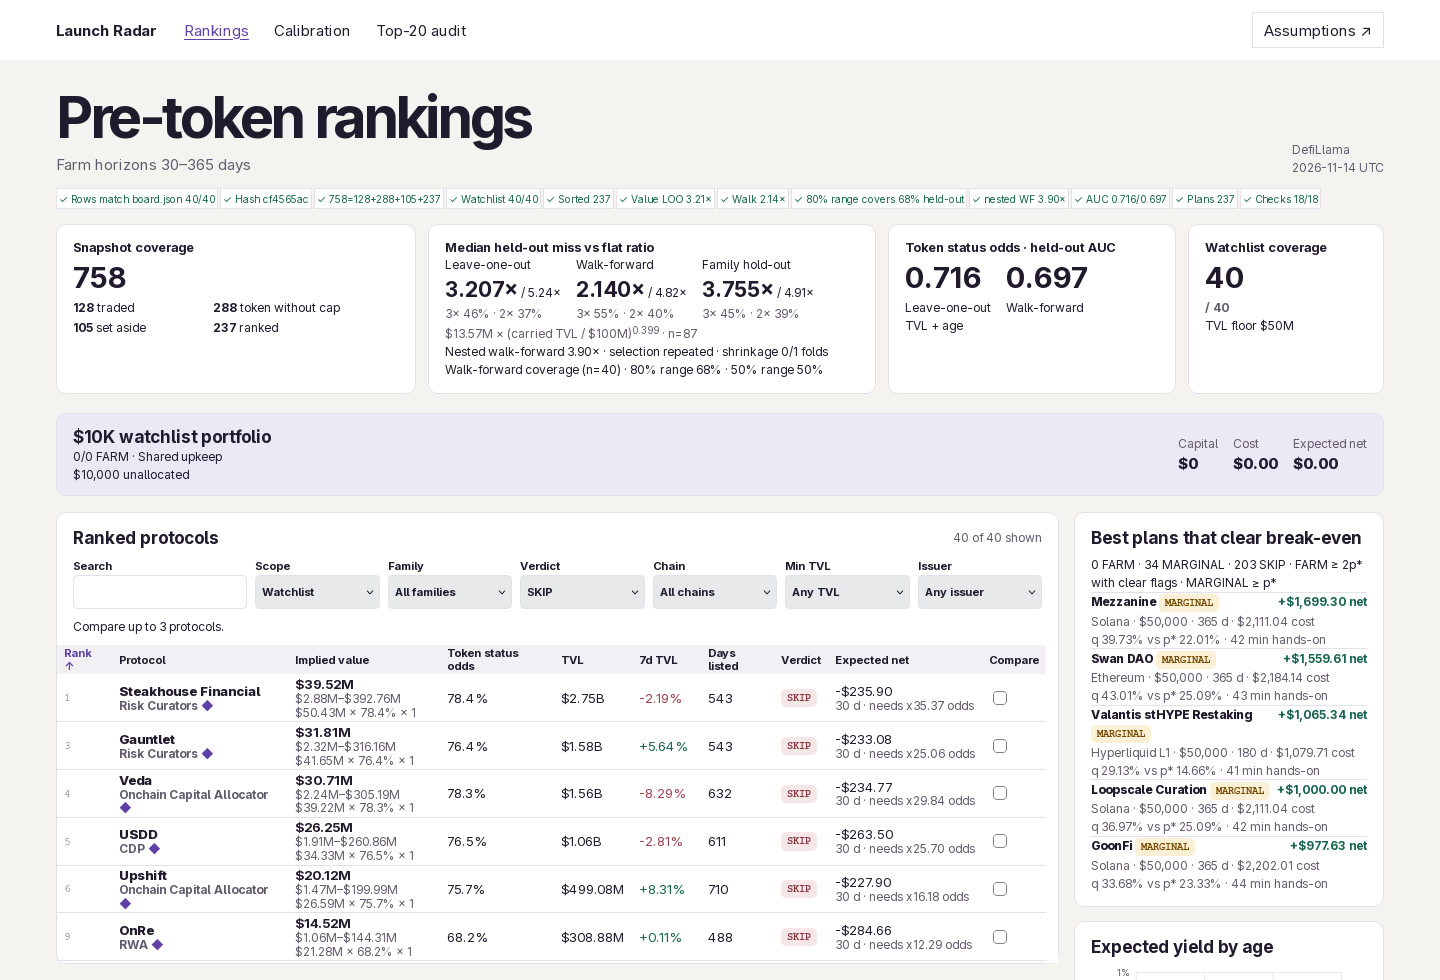
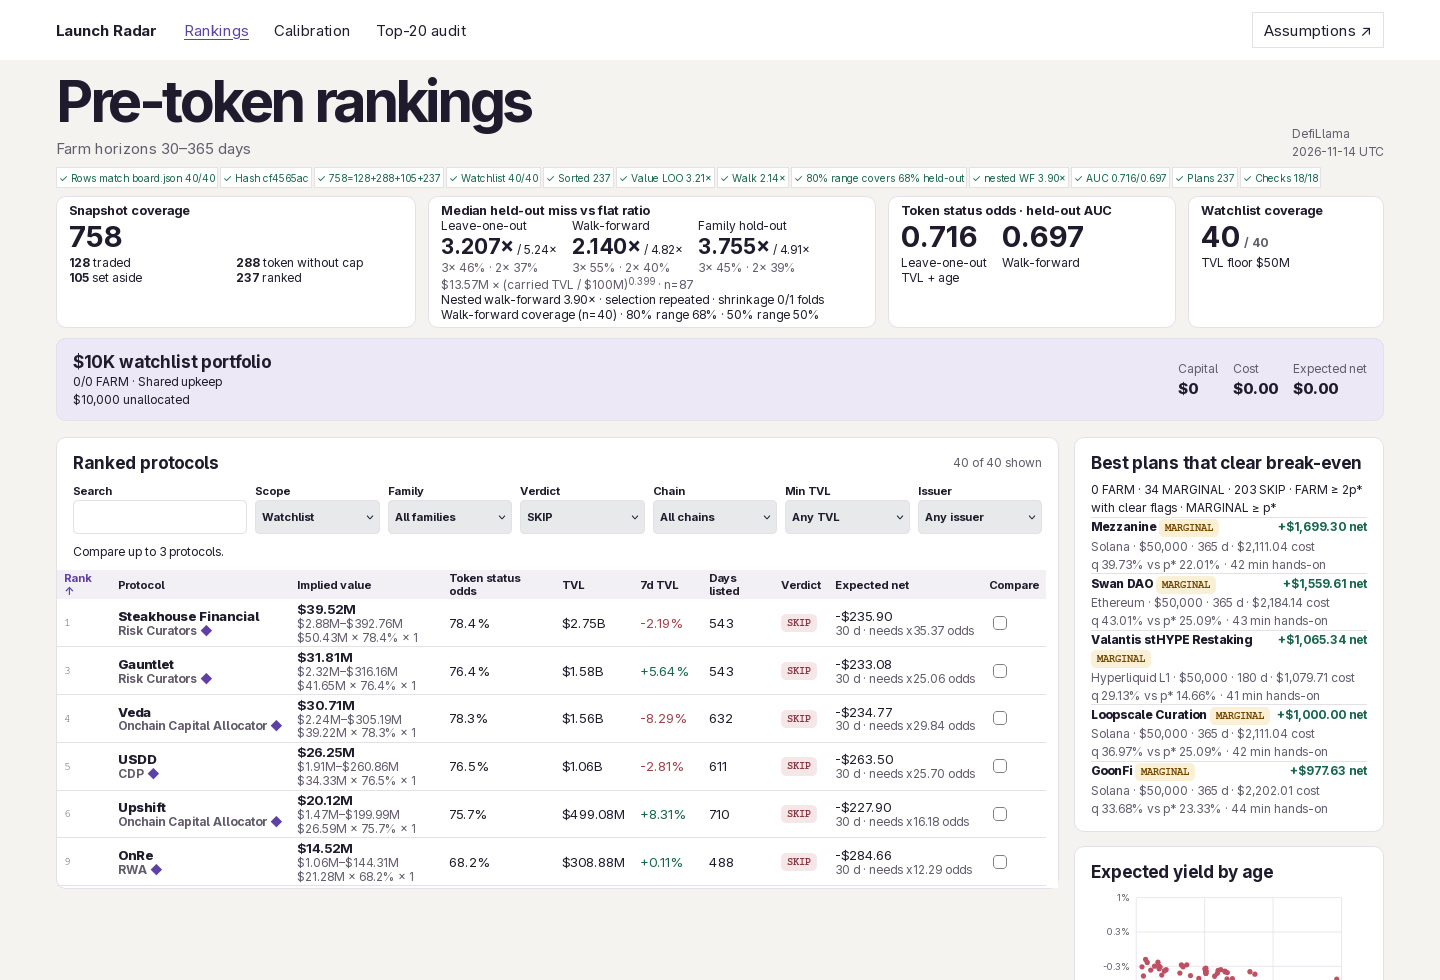
Denser board without shrinking type

diff --git a/dashboard/style.css b/dashboard/style.css
@@ -17,7 +17,7 @@ button,select,summary{cursor:pointer}
 h1{font-size:clamp(2.4rem,4vw,3.9rem);line-height:1;letter-spacing:-.06em}
 h2{font-size:1.14rem;line-height:1.25}
 .frame{width:min(1328px,95%);margin:auto}
-.site-header,.dialog-bar,.btn,.chip,.panel,.portfolio{background:#fff}
+.site-header,.dialog-bar,.btn,.chip,.panel{background:#fff}
 .mast,.bar,.dialog-bar,.portfolio,.equation{display:flex;align-items:center}
 .intro,.readings,.legend,.positions,.outcomes,.integrity,dl{display:flex}
 .mast{min-height:60px;gap:28px}
@@ -31,18 +31,19 @@ nav [aria-current=page]{text-decoration:underline}
 small,dt,.rank,.intro p,.curve,footer{color:var(--dim)}
 .intro,.bar,.dialog-bar,.metrics{justify-content:space-between}
 .integrity,.readings,.portfolio,.positions,.attribution dl{flex-wrap:wrap}
-.intro{align-items:end;margin:28px 0 24px}
+.intro{align-items:end;margin:12px 0 24px}
 .intro p{margin-top:8px}
-.integrity{gap:2px;margin:-12px 0 1em}
+.integrity{gap:2px;margin:-17px 0 8px}
 .chip{padding:2px;white-space:nowrap;font-size:.68rem}
 #checks-info,.back{margin-top:16px}
 .kpis,.groups,.board,.detail,.research,.rail,.detail>div,.filters,.steps li,.quotes{display:grid}
-.kpis{grid-template-columns:1.25fr 1.55fr 1fr .68fr;gap:12px;margin-bottom:19px}
+.kpis{grid-template-columns:1.25fr 1.55fr 1fr .68fr;gap:12px;margin:0 0 10px}
 .panel,.portfolio{border-radius:10px;min-width:0}
+.kpi{padding:5px 12px;line-height:1.25}
 .kpi strong{font-size:1.94rem}
-.groups{grid-template-columns:auto auto;gap:2px 8px}
+.groups{grid-template:auto/1fr 1fr}
 .readings,.band,.totals,.board,.detail,.research{gap:1rem}
-small,.readings span,svg,.back{display:block}
+:not(strong)>small,.readings span,svg,.back{display:block}
 .misses strong{font-size:1.4rem}
 small,dt,.curve,.attribution,.rail,.portfolio p,.hint,.back,.kpi{font-size:.8rem}
 .valuation,.portfolio,.metrics,.steps small{background:var(--bg)}
@@ -54,15 +55,17 @@ small,dt,.curve,.attribution,.rail,.portfolio p,.hint,.back,.kpi{font-size:.8rem
 :is(.filters,.quotes) label{font-size:.75rem;font-weight:700}
 :is(.filters,.quotes) :is(input,select){width:100%;height:34px;padding:4px 6px;border:var(--line);border-radius:5px}
 .scroll{overflow:auto}
-#results .scroll{max-height:414px}
-.portfolio+div #results .scroll{max-height:318px}
+#results .scroll{
+	max-height:511px;
+	.portfolio+div &{max-height:318px}
+}
 #results thead{position:sticky;top:0;z-index:1}
 table{width:100%;border-collapse:collapse}
 th{text-align:left}
 thead{background:#f3eff6;font-size:.75rem}
 .ranks{min-width:880px;font-size:.88rem;line-height:1.15}
 .ranks :is(td,th){padding:2px 7px}
-.ranks td{white-space:nowrap}
+.ranks :is(td,th small){white-space:nowrap}
 .hint,.compare{margin:0 16px 9px}
 tbody tr{border-bottom:var(--line)}
 .protocol,dd,.amount{font-weight:750}
@@ -72,7 +75,7 @@ tbody tr{border-bottom:var(--line)}
 .farm{background:#e1f3eb;color:#145a46}
 .marginal{background:#fbefd7;color:#754800}
 .skip{background:#f6e6e8;color:#893842}
-.inset,.valuation,.empty,.kpi{padding:14px 16px}
+.inset,.valuation,.empty{padding:14px 16px}
 svg{width:100%;height:146px}
 svg text{fill:var(--dim);font-size:11px}
 svg path{stroke:#e8e0ed}

diff --git a/dashboard/app.js b/dashboard/app.js
@@ -32,7 +32,7 @@ const grades=keys(verdicts),
 	oddsLabel="Token status odds",
 	cols={
 	rank:["Rank","rank","asc"],name:["Protocol","name","asc"],
-	value:["Implied value","score"],odds:[oddsLabel,"tokenOdds"],tvl:["TVL","tvl_usd"],
+	value:["Implied value","score"],odds:["Token&nbsp;status odds","tokenOdds"],tvl:["TVL","tvl_usd"],
 	growth:["7d TVL","change_7d"],days:["Days listed","ageDays"],
 	verdict:["Verdict",p=>grades.indexOf(p.plan.verdict),"asc"],net:["Expected net",p=>p.plan.net]
 }
